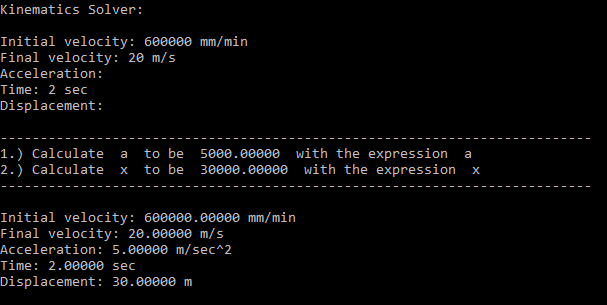
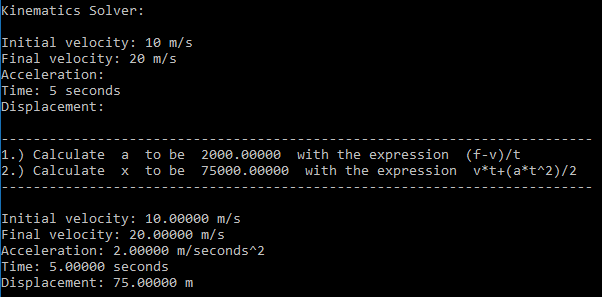
Fixed bug with unit "seconds" and steps to solve problem

diff --git a/Kinematics Solver.py b/Kinematics Solver.py
@@ -49,6 +49,7 @@ conversions = {
 	"sec": ("s", 1.0),
 	"s": ("s", 1.0),
 	"second": ("s", 1.0),
+	"seconds": ("s", 1.0),
 	"min": ("s", 60),
 	"hr": ("s", 3600),
 }
@@ -398,7 +399,7 @@ while progress != 0:
 				break
 			if expression is not False:
 				progress += 1
-				print(str(count) + ".) Calculate ", j[0], " to be ", expression, " with the expression ", j[1])
+				print(str(count) + ".) Calculate ", j[0], " to be ", expression, " with the expression ", j[2])
 				count += 1
 				variables[j[0]] = expression
 				del eqs[i]
